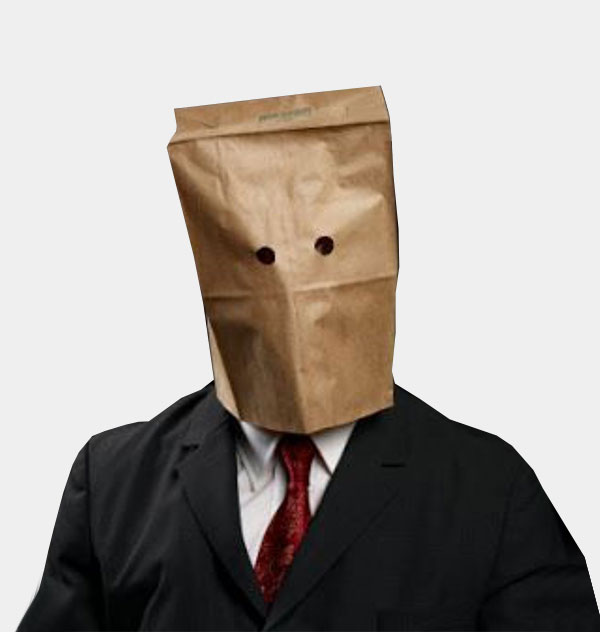
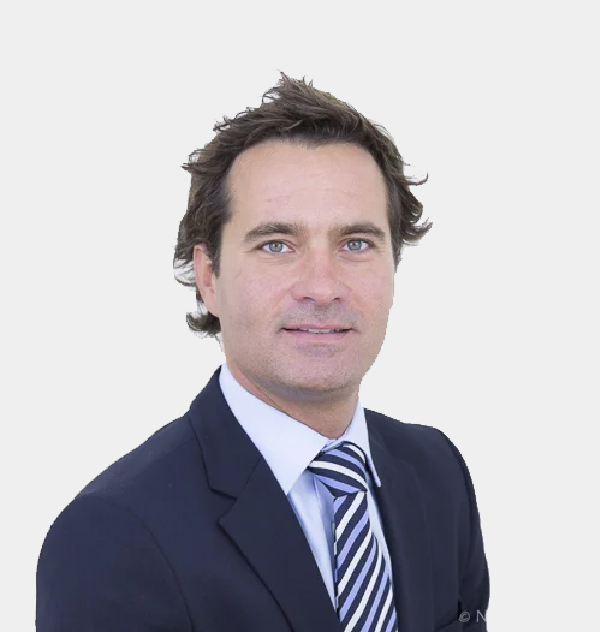
FIX NAV & PLACE HOLDER MEMBERS

diff --git a/pages/nosotros.html b/pages/nosotros.html
@@ -87,73 +87,75 @@
             <!-- Miembros del equipo -->
             <div class="about_us_team_container" >
                 <div class="about_us_team_member_container">
-                    <img class="about_us_team_member_image" src="../images/team-image8.jpg" alt="Foto de miembro del equipo">
+                    <img class="about_us_team_member_image" src="../images/team-image1.jpg" alt="Foto de miembro del equipo">
                     <!-- Informacion del miembro del equipo -->
                     <div class="about_us_team_member_datacontainer">
-                        <h3 class="about_us_team_member_name">NOMBRE + APELLIDO</h3 >
-                        <p class="about_us_team_member_profesion">Profesión</p>
+                        <h3 class="about_us_team_member_name">DIEGO FERNANDEZ</h3 >
+                        <p class="about_us_team_member_profesion">Periodista</p>
                     </div>
                 </div>
 
                 <div class="about_us_team_member_container">
-                    <img class="about_us_team_member_image" src="../images/team-image8.jpg" alt="Foto de miembro del equipo">
+                    <img class="about_us_team_member_image" src="../images/team-image2.jpg" alt="Foto de miembro del equipo">
                     <!-- Informacion del miembro del equipo -->
                     <div class="about_us_team_member_datacontainer">
-                        <h3 class="about_us_team_member_name">NOMBRE + APELLIDO</h3 >
-                        <p class="about_us_team_member_profesion">Profesión</p>
+                        <h3 class="about_us_team_member_name">ANDRÉS VALDIVIA</h3 >
+                        <p class="about_us_team_member_profesion">Ing. Civil</p>
+                    </div>
+                </div>
+                <div class="about_us_team_member_container">
+                    <img class="about_us_team_member_image" src="../images/team-image3.jpg" alt="Foto de miembro del equipo">
+                    <!-- Informacion del miembro del equipo -->
+                    <div class="about_us_team_member_datacontainer">
+                        <h3 class="about_us_team_member_name">MAURO ROBLES</h3 >
+                        <p class="about_us_team_member_profesion">Lic. Ambiental</p>
+                    </div>
+                </div>
+                <div class="about_us_team_member_container">
+                    <img class="about_us_team_member_image" src="../images/team-image4.jpg" alt="Foto de miembro del equipo">
+                    <!-- Informacion del miembro del equipo -->
+                    <div class="about_us_team_member_datacontainer">
+                        <h3 class="about_us_team_member_name">GONZALO ALVAREZ</h3 >
+                        <p class="about_us_team_member_profesion">Docente</p>
+                    </div>
+                </div>
+                <div class="about_us_team_member_container">
+                    <img class="about_us_team_member_image" src="../images/team-image5.jpg" alt="Foto de miembro del equipo">
+                    <!-- Informacion del miembro del equipo -->
+                    <div class="about_us_team_member_datacontainer">
+                        <h3 class="about_us_team_member_name">GERMAN PATRIZI</h3 >
+                        <p class="about_us_team_member_profesion">Desarrollador</p>
+                    </div>
+                </div>
+                <div class="about_us_team_member_container">
+                    <img class="about_us_team_member_image" src="../images/team-image6.jpg" alt="Foto de miembro del equipo">
+                    <!-- Informacion del miembro del equipo -->
+                    <div class="about_us_team_member_datacontainer">
+                        <h3 class="about_us_team_member_name">FERNANDO PANOSSIAN</h3 >
+                        <p class="about_us_team_member_profesion">Lic. Adm. Empresas</p>
+                    </div>
+                </div>
+                <div class="about_us_team_member_container">
+                    <img class="about_us_team_member_image" src="../images/team-image7.jpg" alt="Foto de miembro del equipo">
+                    <!-- Informacion del miembro del equipo -->
+                    <div class="about_us_team_member_datacontainer">
+                        <h3 class="about_us_team_member_name">CRHISTIAN QUIROGA</h3 >
+                        <p class="about_us_team_member_profesion">Ing. Civil</p>
                     </div>
                 </div>
                 <div class="about_us_team_member_container">
                     <img class="about_us_team_member_image" src="../images/team-image8.jpg" alt="Foto de miembro del equipo">
                     <!-- Informacion del miembro del equipo -->
                     <div class="about_us_team_member_datacontainer">
-                        <h3 class="about_us_team_member_name">NOMBRE + APELLIDO</h3 >
-                        <p class="about_us_team_member_profesion">Profesión</p>
-                    </div>
-                </div>
-                <div class="about_us_team_member_container">
-                    <img class="about_us_team_member_image" src="../images/team-image8.jpg" alt="Foto de miembro del equipo">
-                    <!-- Informacion del miembro del equipo -->
-                    <div class="about_us_team_member_datacontainer">
-                        <h3 class="about_us_team_member_name">NOMBRE + APELLIDO</h3 >
-                        <p class="about_us_team_member_profesion">Profesión</p>
-                    </div>
-                </div>
-                <div class="about_us_team_member_container">
-                    <img class="about_us_team_member_image" src="../images/team-image8.jpg" alt="Foto de miembro del equipo">
-                    <!-- Informacion del miembro del equipo -->
-                    <div class="about_us_team_member_datacontainer">
-                        <h3 class="about_us_team_member_name">NOMBRE + APELLIDO</h3 >
-                        <p class="about_us_team_member_profesion">Profesión</p>
-                    </div>
-                </div>
-                <div class="about_us_team_member_container">
-                    <img class="about_us_team_member_image" src="../images/team-image8.jpg" alt="Foto de miembro del equipo">
-                    <!-- Informacion del miembro del equipo -->
-                    <div class="about_us_team_member_datacontainer">
-                        <h3 class="about_us_team_member_name">NOMBRE + APELLIDO</h3 >
-                        <p class="about_us_team_member_profesion">Profesión</p>
-                    </div>
-                </div>
-                <div class="about_us_team_member_container">
-                    <img class="about_us_team_member_image" src="../images/team-image8.jpg" alt="Foto de miembro del equipo">
-                    <!-- Informacion del miembro del equipo -->
-                    <div class="about_us_team_member_datacontainer">
-                        <h3 class="about_us_team_member_name">NOMBRE + APELLIDO</h3 >
-                        <p class="about_us_team_member_profesion">Profesión</p>
-                    </div>
-                </div>
-                <div class="about_us_team_member_container">
-                    <img class="about_us_team_member_image" src="../images/team-image8.jpg" alt="Foto de miembro del equipo">
-                    <!-- Informacion del miembro del equipo -->
-                    <div class="about_us_team_member_datacontainer">
-                        <h3 class="about_us_team_member_name">NOMBRE + APELLIDO</h3 >
-                        <p class="about_us_team_member_profesion">Profesión</p>
+                        <h3 class="about_us_team_member_name">GUSTAVO PALACIOS</h3 >
+                        <p class="about_us_team_member_profesion">Lic. Ambiental</p>
                     </div>
                 </div>
                 
             </div>
         </section>
+
+
     </main>
     <hr>
     <footer class="footer_grid">

diff --git a/css/style.css b/css/style.css
@@ -6,6 +6,7 @@ Dichos colores no son mas que repsentativos, y estos estilos serán removidos o 
 */
 
 
+
 *{
     padding: 0;
     margin: 0;
@@ -241,6 +242,7 @@ a.navlink:visited
 
 
 /* INICIO DE HOME */ 
+
 .home_section
 {
     padding: 40px 10%;
@@ -253,7 +255,7 @@ a.navlink:visited
     background-color: #30c147;
 }
 
-
+/*
 h2.home_section_tittle
 {
     width: 100%;
@@ -266,6 +268,7 @@ h2.home_section_tittle
     justify-content: center;
     font-size: 40px;
 }
+*/
 
 
 .home_section_tittle_white
@@ -382,7 +385,7 @@ h2.home_section_tittle
 {
     width: 80%;
     margin: 20px 10%;
-    height: 190px;
+    height: 220px;
     text-align: left;
     text-overflow: ellipsis;
     overflow: hidden;
@@ -557,6 +560,34 @@ footer
 }
 
 
+@media only screen and (max-width: 1920px) 
+{
+    .home_section_services_item_text
+    {
+        height: 300px;
+    }
+}
+
+@media only screen and (max-width: 1280px) 
+{
+    .home_section_services_item_text
+    {
+        height: 330px;
+
+    }
+}
+
+@media only screen and (max-width: 1100px) 
+{
+    .home_section_services_item_text
+    {
+        height: 430px;
+
+    }
+}
+
+
+
 @media only screen and (max-width: 960px) 
 {
 
@@ -659,15 +690,23 @@ footer
     
 }
 
+
+
+
 @media only screen and (max-width: 560px) 
 {
 
     /*NAV BAR */ 
     .logoContainer
     {
-        width: 40%;
+        width: 100%;
         height: 100%;
-        min-width: 200px;
+    }
+
+    img.logo 
+    {
+        width: 25%;
+        height: auto;
     }
 
     h1.mainTittle
@@ -679,6 +718,24 @@ footer
     {
         font-size: 20px;
     }
+
+    /*NAV BAR */
+    nav.navbar
+    {
+        flex-direction: column;
+        align-items: center;
+    
+    }
+
+    .navbarList
+    {
+        width:100%;
+        height: 100%;
+        flex-direction: row;
+        justify-content: center;
+        align-items: center;
+    }
+
     .navItem
     {
         font-size: 1.6vw;

diff --git a/css/nosotros.css b/css/nosotros.css
@@ -98,7 +98,6 @@
     display: flex;
     flex-direction: row;
     padding: 20px;
-    align-items: center;
     justify-content: center;
     flex-wrap: wrap;
 }
@@ -129,11 +128,13 @@
 
 .about_us_team_member_name
 {
-   font-size: 25px;
+   font-size: 20px;
+   text-align: center;
 }
 .about_us_team_member_profesion
 {
-   font-size: 25px;
+   font-size: 20px;
+   text-align: center;
 }
 
 
@@ -172,17 +173,7 @@
     {
         width: 40%;
     }
-    .about_us_team_member_name
-    {
-        font-size: 20px;
-        text-align: center;
-    }
 
-    .about_us_team_member_profesion
-    {
-        font-size: 20px;
-        text-align: center;
-    }
 
 
 
@@ -194,4 +185,6 @@
     {
         width: 80%;
     }
+
+
 }

diff --git a/css/servicios.css b/css/servicios.css
@@ -56,6 +56,37 @@
 
 }
 
+#servicios
+{
+    margin-bottom: 40px;
+}
+
+@media only screen and (max-width: 1920px) 
+{
+    .services_section_item_text
+    {
+        height: 300px;
+    }
+}
+
+@media only screen and (max-width: 1280px) 
+{
+    .services_section_item_text
+    {
+        height: 330px;
+
+    }
+}
+
+@media only screen and (max-width: 1100px) 
+{
+    .services_section_item_text
+    {
+        height: 430px;
+
+    }
+}
+
 
 @media only screen and (max-width: 960px) 
 {

diff --git a/pages/servicios.html b/pages/servicios.html
@@ -8,6 +8,7 @@
     <link rel="stylesheet" href="../css/style.css">
     <link rel="stylesheet" href="../css/servicios.css">
     <link rel="stylesheet" href="../css/testcss.css">
+ 
 </head>
 <body>
     <header class="header">
